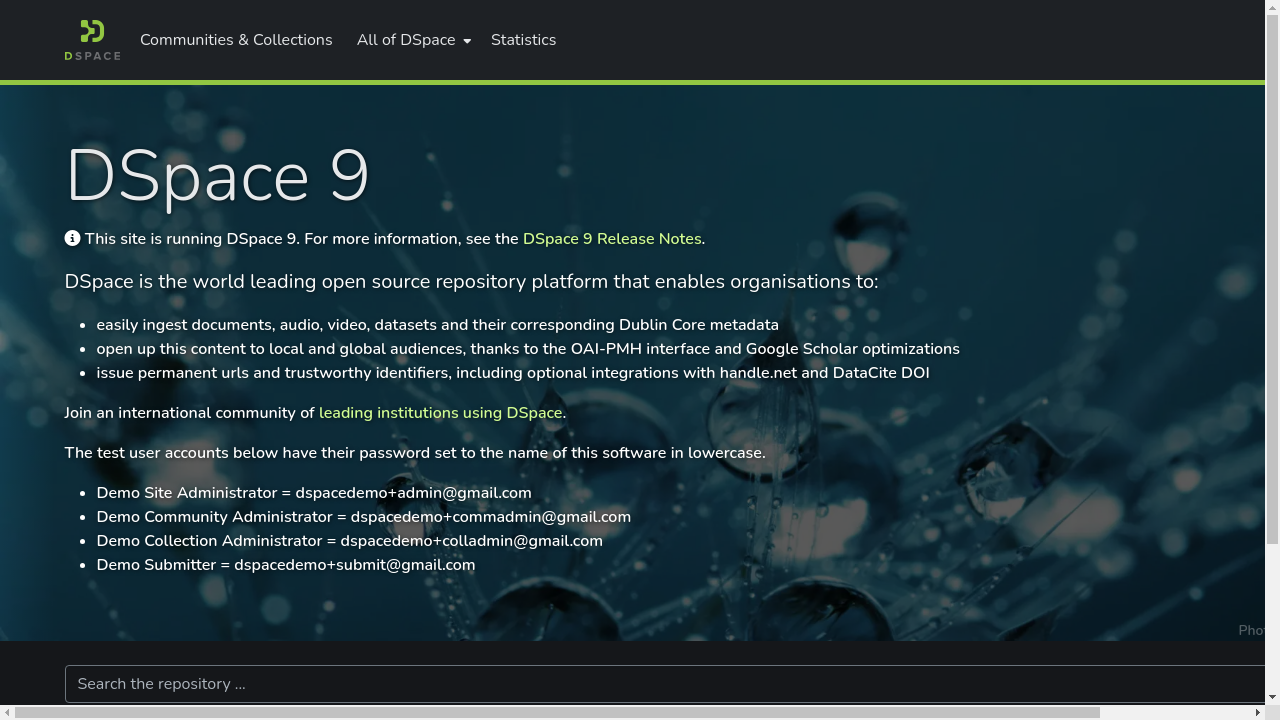
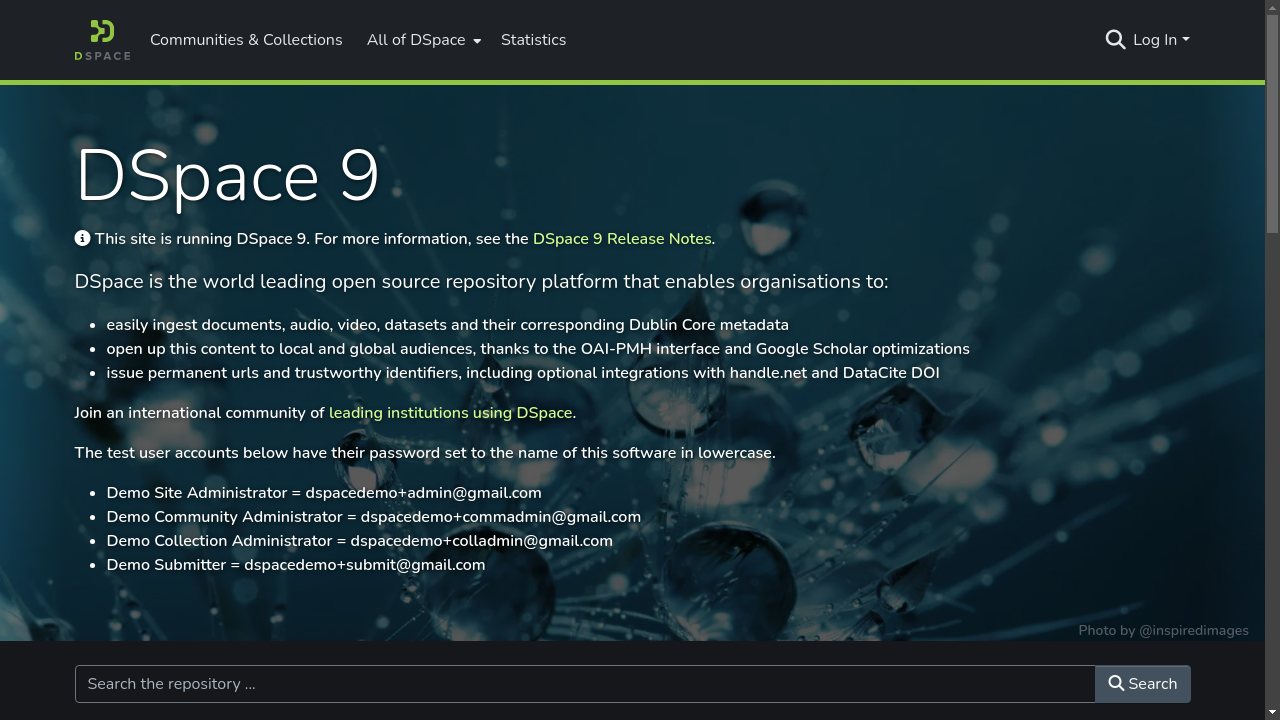
Adjust text colors

diff --git a/src/styles/_global-styles.scss b/src/styles/_global-styles.scss
@@ -560,8 +560,22 @@ ngb-tooltip-window {
   text-decoration: underline;
 }
 
+// Headings sit darker than body copy on the default (light) page surface.
+// This is applied through a cascading custom property rather than a hardcoded
+// colour so that any element painting its own foreground -- a dark hero banner,
+// an image overlay, an inverted footer -- opts every heading inside it back into
+// that foreground with a single `--ds-heading-color: currentColor;`, instead of
+// each component having to out-specify this rule. `color: currentColor` resolves
+// to the inherited colour, so headings simply follow their context.
 h1, h2 {
     color: var(--ds-heading-color, #262626);
+}
+
+// Bootstrap's inverted surfaces set their own foreground; keep headings in step
+// with it automatically so this doesn't have to be repeated per component.
+.text-white,
+[class*="text-bg-"] {
+    --ds-heading-color: currentColor;
 }
 
 a.lead, a.nav-link, .text-dcrimson {

diff --git a/src/themes/dspace/app/home-page/home-news/home-news.component.scss b/src/themes/dspace/app/home-page/home-news/home-news.component.scss
@@ -3,6 +3,9 @@
 
   div.background-image-container {
     color: white;
+    // this banner paints its own foreground over a dark photo, so headings follow
+    // it rather than the near-black default heading colour (see _global-styles.scss)
+    --ds-heading-color: currentColor;
     position: relative;
     font-weight: 600;
 

diff --git a/README.md b/README.md
@@ -10,7 +10,7 @@ rendering, so there is no flash of a light page before the theme kicks in.
 
 | Light | Dark |
 | --- | --- |
-| <img src="docs/images/dark-mode/home-dark.png" alt="Home page in dark mode" width="100%"> | <img src="docs/images/dark-mode/settings-dark.png" alt="Dark mode setting page in dark mode" width="100%"> |
+| <img src="docs/images/dark-mode/home-light.png" alt="Home page in light mode" width="100%"> | <img src="docs/images/dark-mode/home-dark.png" alt="Home page in dark mode" width="100%"> |
 | <img src="docs/images/dark-mode/search-light.png" alt="Search results in light mode" width="100%"> | <img src="docs/images/dark-mode/search-dark.png" alt="Search results in dark mode" width="100%"> |
 
 Table of Contents
@@ -161,7 +161,7 @@ border color on form controls.
 | `src/app/dark-mode/dark-mode.service.spec.ts` | Unit tests for the resolution order |
 | `src/app/info/dark-mode-settings/` | The settings page (`/info/dark-mode`) with the `ui-switch` toggle |
 | `src/themes/dspace/styles/_dark-mode.scss` | The dark palette and every variable override |
-| `src/themes/dspace/styles/_theme_css_variable_overrides.scss` | Light-mode values |
+| `src/themes/dspace/styles/_theme_css_variable_overrides.scss` | Light-mode values for variables |
 | `src/styles/_global-styles.scss` | Hard-coded light literals replaced with variable references |
 | `src/app/app.component.ts` | Calls `initialize()` at bootstrap (SSR + browser) |
 | `src/app/footer/footer.component.*` | Conditional footer link |
